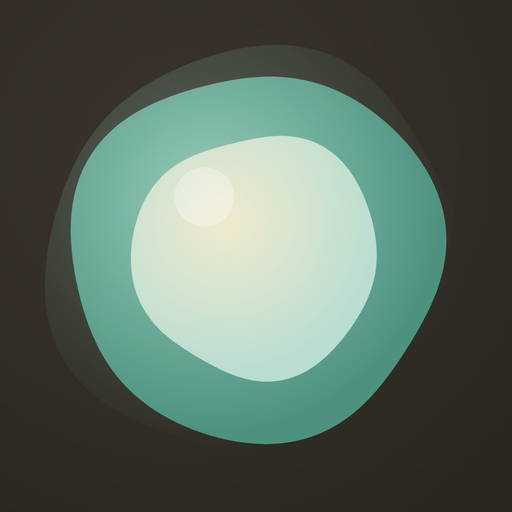
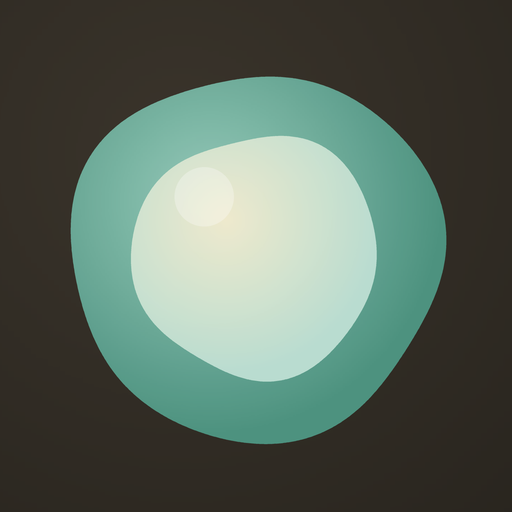
Tira o brilho externo da orbe do ícone do app
Decisão do Yan sobre a prévia: o brilho deslocado em volta da orbe lia
como sombra esverdeada no fundo escuro. O ícone fica com o corpo, o
miolo e o ponto de luz, no mesmo tamanho (72% da janela visível) e com
o fundo escuro.

O brilho sai do foreground, dos PNGs legados e do ícone da Play Store.
A camada monochrome perde o halo fraco que tinha e continua coerente:
aro, miolo translúcido e ponto de luz. Tudo regenerado por
scripts/gerar-icone.py; a orbe agora chega a 27,2 dp do centro, dentro
da zona segura de 33 dp.

Changed region(s): [[0.0938, 0.0938, 0.5625, 0.4688]]

diff --git a/scripts/gerar-icone.py b/scripts/gerar-icone.py
@@ -2,10 +2,11 @@
 """
 Gera o ícone do KeyFlow a partir da orbe parada (estado Idle do estilo Ateliê).
 
-A orbe é desenhada em `VoiceOrb.kt` (`drawOrb`): um brilho, o corpo e o miolo, três blobs vivos com degradê
-radial, mais um pontinho de luz. Este script reproduz esse desenho (mesmas cores, degradês, proporções e o mesmo
-instante da galeria de verificação, `GALLERY_ORB_TIME_MS`, para a forma bater com `verification/golden/orb-idle.png`)
-e produz, de uma só fonte:
+A orbe é desenhada em `VoiceOrb.kt` (`drawOrb`): um brilho externo, o corpo e o miolo, três blobs vivos com degradê
+radial, mais um pontinho de luz. O ícone leva o corpo, o miolo e o pontinho de luz, sem o brilho externo (decisão do
+Yan: o halo deslocado lia como sombra no fundo escuro). Este script reproduz esse desenho (mesmas cores, degradês,
+proporções e o mesmo instante da galeria de verificação, `GALLERY_ORB_TIME_MS`, para a forma bater com
+`verification/golden/orb-idle.png`) e produz, de uma só fonte:
 
   - os VectorDrawables do ícone adaptativo (API 26+):
       app/src/main/res/drawable/ic_launcher_background.xml
@@ -27,7 +28,7 @@ Uso (do diretório do repositório; só precisa do Pillow):
     python3 scripts/gerar-icone.py --previa /tmp/keyflow-icone/previa.png --so-previa
 
 Zona segura: o adaptativo tem 108 dp, a máscara do launcher mostra no máximo 72 dp no centro e só 66 dp (círculo)
-é garantido. O script confere que o brilho da orbe cabe nos 66 dp.
+é garantido. O script confere que a orbe cabe nos 66 dp.
 
 Para trocar a cor do fundo ou o tamanho da orbe, mexa nas constantes `FUNDOS` e `RAIO_CORPO` aqui e rode de novo:
 os XMLs e os PNGs saem sempre juntos, para nunca divergirem.
@@ -49,7 +50,6 @@ LOJA = RAIZ / "docs/loja"
 
 # --- A orbe (VoiceOrb.kt, drawOrb) ---------------------------------------------------------------------------------
 # Paleta Ateliê (paleta A). ARGB.
-BRILHO_DENTRO, BRILHO_FORA = 0x667EB8A8, 0x007EB8A8
 CORPO_DENTRO, CORPO_FORA = 0xFF9AD0BF, 0xFF4E9683
 MIOLO_DENTRO, MIOLO_FORA = 0xFFF4ECCF, 0xFFBFE0D4
 ALFA_CORPO, ALFA_MIOLO, ALFA_LUZ = 0.96, 0.95, 0.30
@@ -73,7 +73,7 @@ FUNDOS = {
 }
 
 # Ícone temático (monochrome): só o alfa conta; o sistema pinta com a cor do tema.
-MONO_ALFA_BRILHO, MONO_ALFA_MIOLO = 0.22, 0.34
+MONO_ALFA_MIOLO = 0.34
 
 K = 24  # px por dp do mestre (2592 px)
 SUPER = 2  # as máscaras dos blobs saem em 2x e descem para o mestre (serrilhado some)
@@ -113,7 +113,6 @@ class Camada:
 def camadas():
     r = RAIO_CORPO
     return [
-        Camada("brilho", r * 1.12, AMP * 0.7, VEL * 0.8, 5.0, BRILHO_DENTRO, BRILHO_FORA, 1.0),
         Camada("corpo", r, AMP * NIVEL, VEL, 2.0, CORPO_DENTRO, CORPO_FORA, ALFA_CORPO),
         Camada("miolo", r * 0.66, AMP * 0.7, VEL * 1.35, 9.0, MIOLO_DENTRO, MIOLO_FORA, ALFA_MIOLO),
     ]
@@ -235,14 +234,12 @@ def xml_frente():
 
 
 def xml_mono():
-    brilho, corpo, miolo = camadas()
+    corpo, miolo = camadas()
     lx, ly, lr = luz()
     anel = caminho_bezier(corpo.pontos(N_BEZIER)) + caminho_bezier(miolo.pontos(N_BEZIER))
     return (
         CABECALHO
         + f"<vector {NS_VETOR}>\n"
-        + f'    <!-- brilho, bem fraco -->\n    <path\n        android:fillColor="#FF000000"\n        android:fillAlpha="{MONO_ALFA_BRILHO}"\n'
-        + f'        android:pathData="{caminho_bezier(brilho.pontos(N_BEZIER))}" />\n'
         + f'    <!-- corpo menos o miolo: o aro -->\n    <path\n        android:fillColor="#FF000000"\n        android:fillType="evenOdd"\n'
         + f'        android:pathData="{anel}" />\n'
         + f'    <!-- miolo, translúcido -->\n    <path\n        android:fillColor="#FF000000"\n        android:fillAlpha="{MONO_ALFA_MIOLO}"\n'
@@ -318,13 +315,11 @@ def raster_frente():
 
 def raster_mono():
     """Alfa do ícone temático (imagem 'L'): o mesmo que o XML do monochrome."""
-    brilho, corpo, miolo = camadas()
-    m_brilho = mascara_poligono(brilho.pontos(720)).point(lambda v: round(v * MONO_ALFA_BRILHO))
+    corpo, miolo = camadas()
     m_corpo, m_miolo = mascara_poligono(corpo.pontos(720)), mascara_poligono(miolo.pontos(720))
     anel = ImageChops.subtract(m_corpo, m_miolo)
     lx, ly, lr = luz()
-    alfa = ImageChops.lighter(m_brilho, anel)
-    alfa = ImageChops.lighter(alfa, m_miolo.point(lambda v: round(v * MONO_ALFA_MIOLO)))
+    alfa = ImageChops.lighter(anel, m_miolo.point(lambda v: round(v * MONO_ALFA_MIOLO)))
     return ImageChops.lighter(alfa, mascara_circulo(lx, ly, lr))
 
 
@@ -391,7 +386,7 @@ def conferir_zona_segura():
         max(math.hypot(x - CENTRO, y - CENTRO) for x, y in c.pontos(720)) for c in camadas()
     )
     if pior > ZONA_SEGURA_DP / 2:
-        sys.exit(f"O brilho da orbe passa da zona segura: {pior:.1f} dp de raio > {ZONA_SEGURA_DP / 2:.0f}.")
+        sys.exit(f"A orbe passa da zona segura: {pior:.1f} dp de raio > {ZONA_SEGURA_DP / 2:.0f}.")
     return pior
 
 

diff --git a/.specs/project/STATE.md b/.specs/project/STATE.md
@@ -2651,13 +2651,15 @@ Seis ferramentas em `agent/tools/SkinTools.kt` sobre uma porta (`SkinWorkshop`),
 
 ## 2026-10-24 — Ícone do app (v1-icone)
 
-- Decisão do Yan: a logo do app é a orbe. O ícone é a orbe parada do Ateliê (VoiceOrb.kt: brilho, corpo e miolo, no
-  instante 1234 ms da galeria) sobre um fundo escuro quente (degradê de 3A342B a 211E19, família do `bg` escuro).
-  Skins de pacote (`skin-packs/`) não entram: o ícone usa o visual padrão. A cor do fundo, escura ou creme, ficou para o
-  Yan aprovar na prancha; trocar é `--fundo claro` no script e rodar de novo.
+- Decisão do Yan: a logo do app é a orbe. O ícone é a orbe parada do Ateliê (VoiceOrb.kt: corpo, miolo e ponto de luz,
+  no instante 1234 ms da galeria) sobre um fundo escuro quente (degradê de 3A342B a 211E19, família do `bg` escuro).
+  Skins de pacote (`skin-packs/`) não entram: o ícone usa o visual padrão. Na prancha o Yan aprovou o fundo escuro, o
+  tamanho (orbe a 72% da janela visível) e mandou tirar o brilho externo deslocado da orbe, que lia como sombra esverdeada
+  no escuro; ele sai do foreground, do monochrome, dos PNGs legados e do ícone da loja. O fundo creme segue disponível em
+  `--fundo claro`.
 - Fonte única: `scripts/gerar-icone.py` escreve os três drawables (`ic_launcher_{background,foreground,monochrome}`), os 10
   PNGs legados e `docs/loja/icone-512.png`. Os XMLs de `mipmap-anydpi-v26/` são fixos. O `android:icon` e o `roundIcon`
-  estão no manifesto. O raio da orbe é 26 dp no canvas de 108: o brilho chega a 30,8 dp, dentro dos 33 dp da zona segura.
+  estão no manifesto. O raio da orbe é 26 dp no canvas de 108: sem o brilho externo o corpo chega a 27,2 dp, dentro dos 33 dp da zona segura.
 - Lição de render: o `Image.radial_gradient` do Pillow vale distância × √2 (255 só no canto), e não distância/raio. Usado
   cru, o degradê não chega à cor final na borda do raio e deixa uma faixa no corpo da orbe. O script corrige pela
   constante `RAIO_NO_GRADIENTE`. A forma foi conferida contra `orb-idle-dark.png`: o perfil radial da golden bate com a
